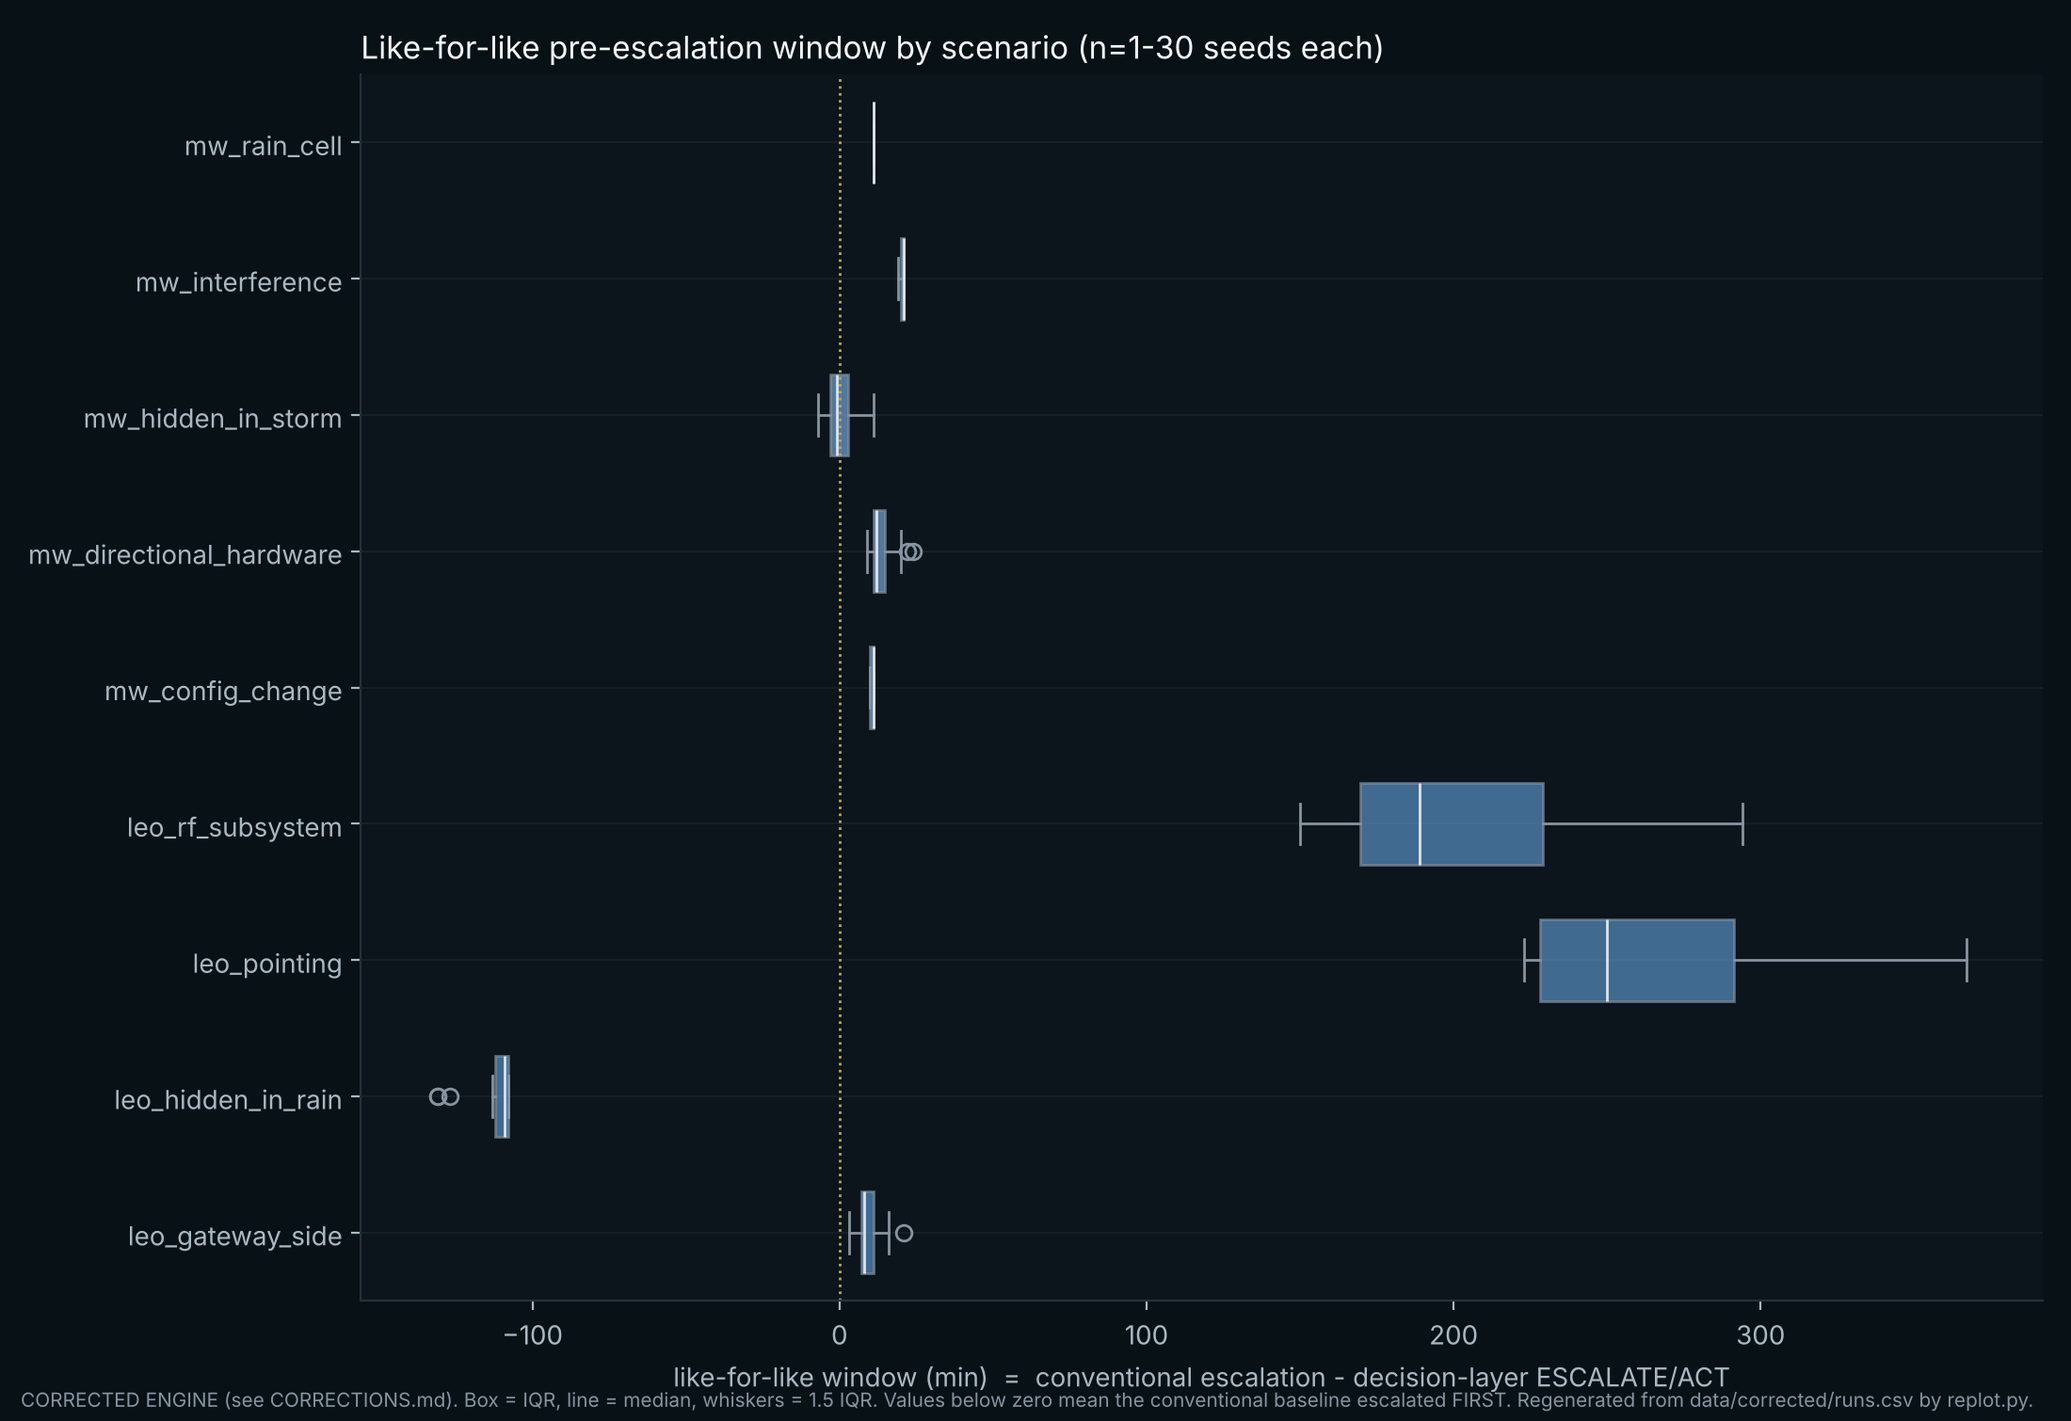
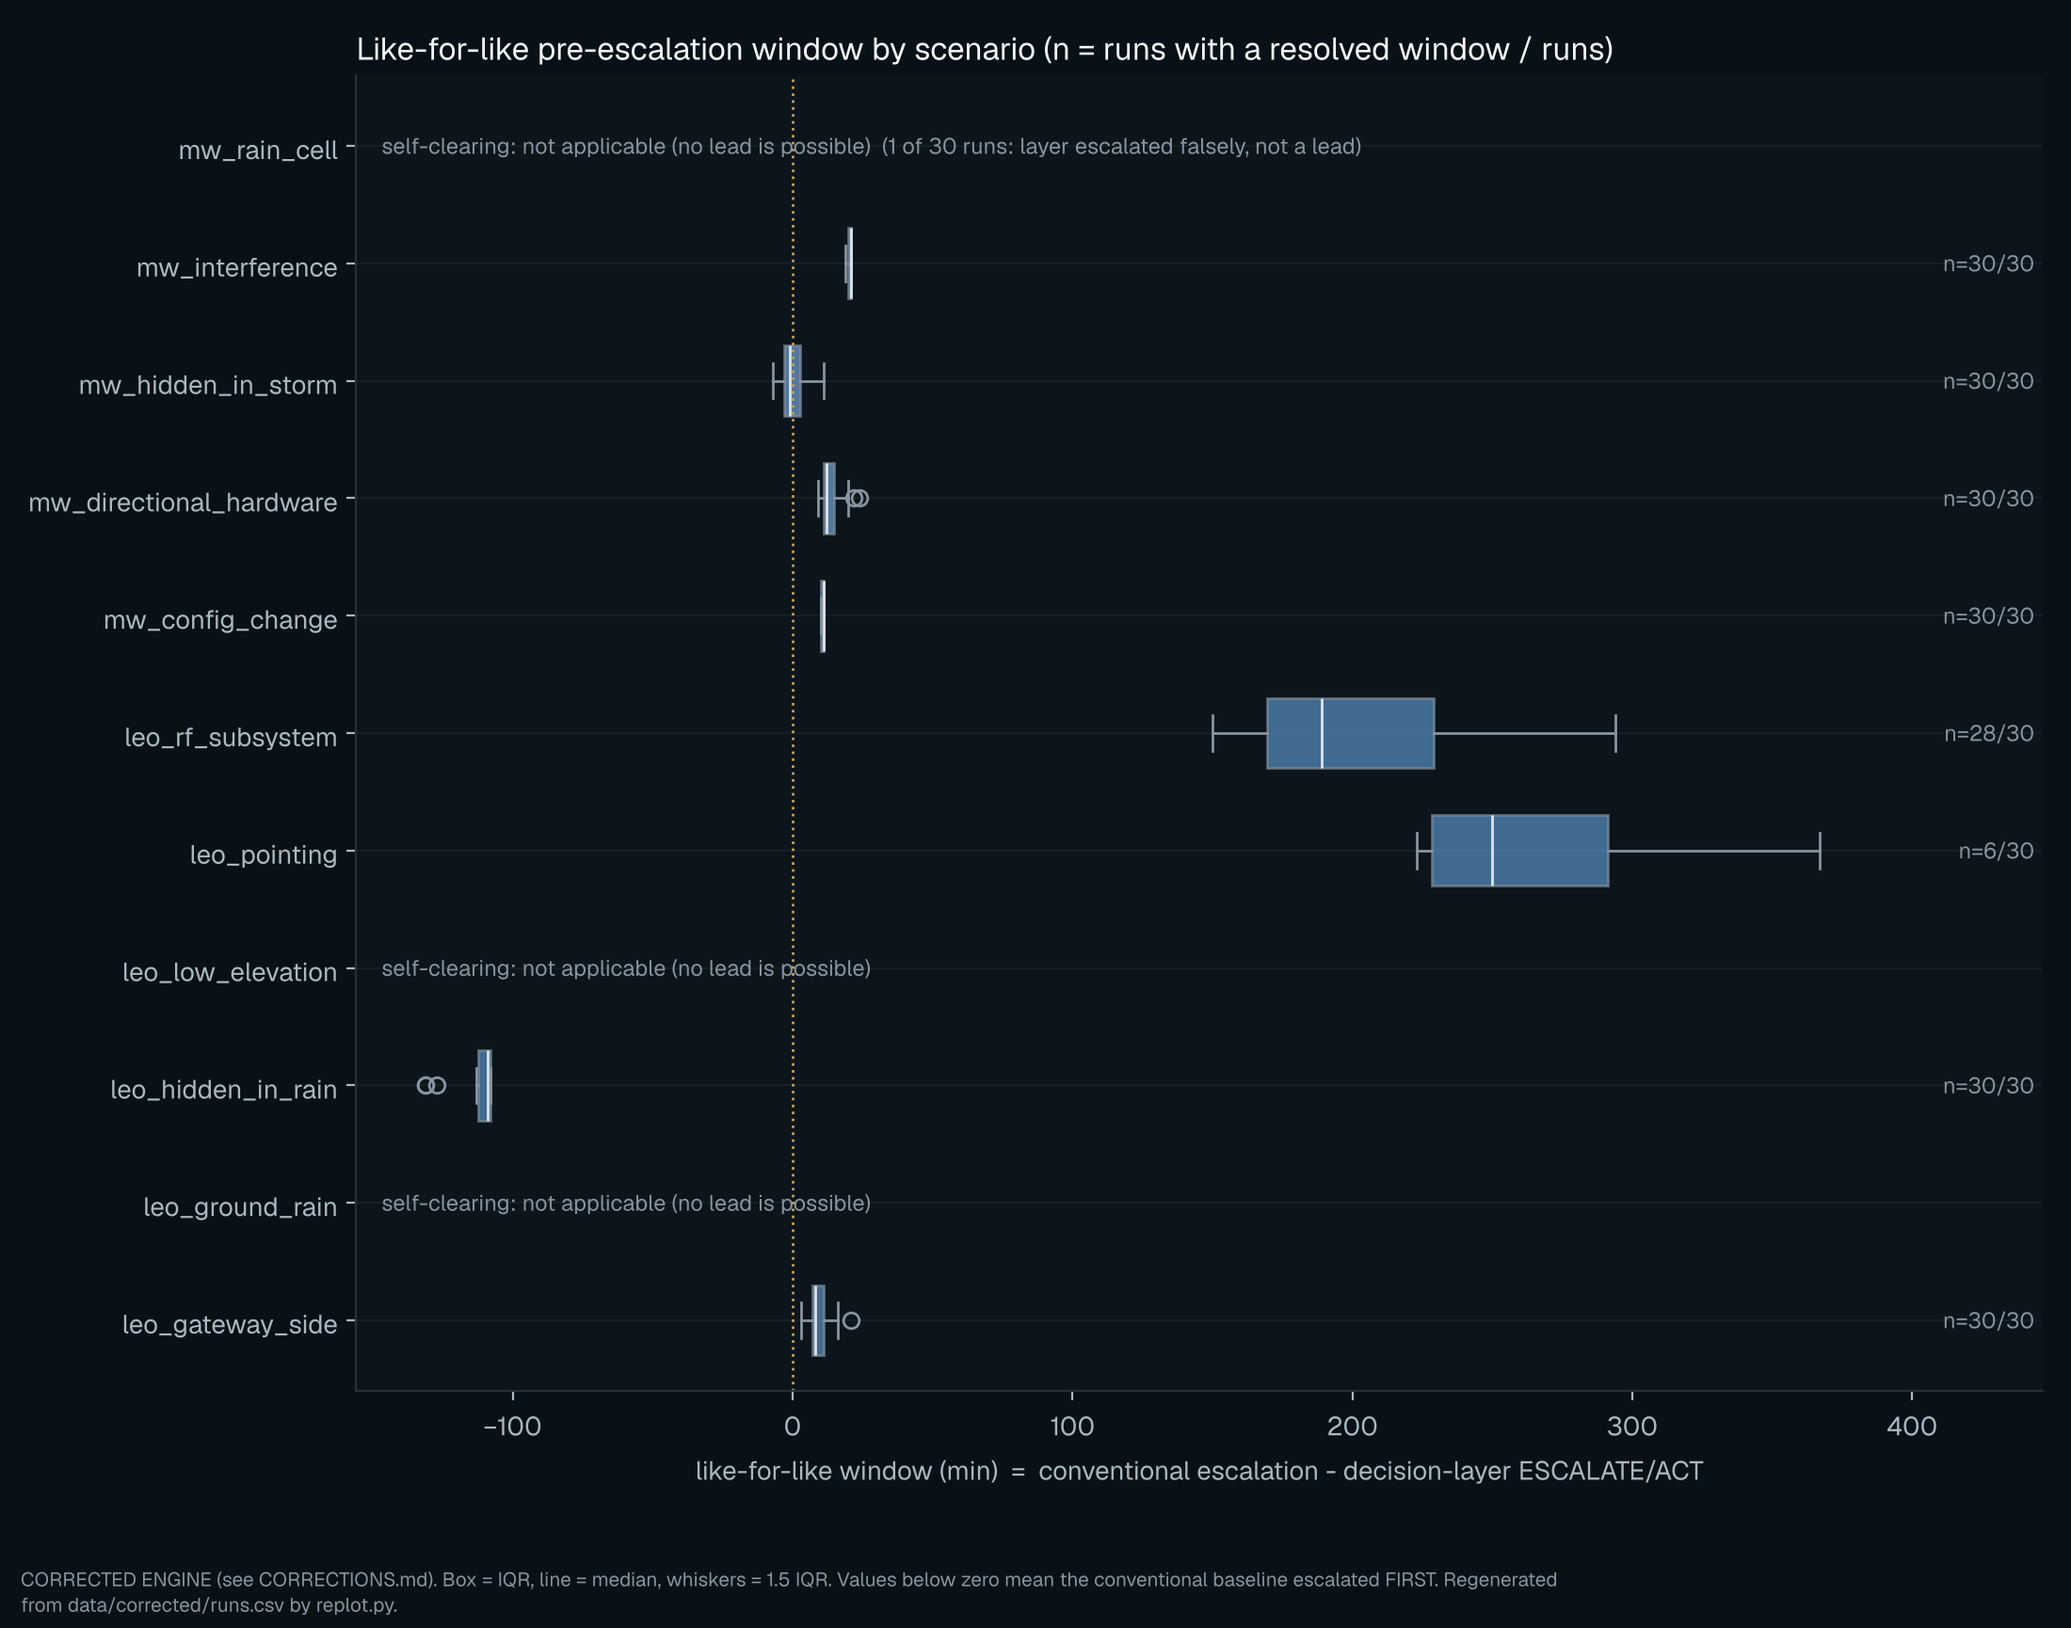
Figures: like-for-like window shows all 11 scenarios with n/a rows and sample sizes; n/a markers; brand line palette; Geist from repo fonts
Claude-Session: https://claude.ai/code/session_01Rx9huHk5MnagFnVThWGEcc

diff --git a/article/index.html b/article/index.html
@@ -123,15 +123,15 @@
 <p><strong>Not regenerated.</strong> Figure 14 (residual diagnosis; the per-step trace is not republished) and Figure 16 (illustrative economic exposure; the exposure model credits the layer with the original lead in which a WAIT counts, so it overstates avoided exposure) have no corrected counterpart. Treat them as previous-model figures. No field or operator validation exists for any result here.</p>
 <figure class="fig">
 <img src="./figures/corrected/fig08-window-by-scenario.png" alt="Box plot of the like-for-like pre-escalation window by scenario with a zero reference line.">
-<figcaption><span class="fig-num">Figure C1</span> <strong>Pre-escalation window by scenario, like-for-like definition.</strong> Regenerated from <code>data/corrected/</code> by <code>replot_dark.py</code>. <span class="fig-tag">SIMULATED</span></figcaption>
+<figcaption><span class="fig-num">Figure C1</span> <strong>Pre-escalation window by scenario, like-for-like definition.</strong> All 11 scenarios are shown. The three self-clearing scenarios (<code>leo_ground_rain</code>, <code>leo_low_elevation</code>, <code>mw_rain_cell</code>) have no lead by construction and are labelled rows, not boxes; one <code>mw_rain_cell</code> run is a false escalation. Each box shows its sample size (runs with a resolved window / runs). Regenerated from <code>data/corrected/</code> by <code>replot_dark.py</code>. <span class="fig-tag">SIMULATED</span></figcaption>
 </figure>
 <figure class="fig">
 <img src="./figures/corrected/fig09-cross-domain.png" alt="Box plots comparing microwave and LEO/NTN windows, time to correct diagnosis and ambiguous decisions.">
-<figcaption><span class="fig-num">Figure C2</span> <strong>Cross-domain comparison, corrected engine.</strong> Regenerated from <code>data/corrected/</code> by <code>replot_dark.py</code>. <span class="fig-tag">SIMULATED</span></figcaption>
+<figcaption><span class="fig-num">Figure C2</span> <strong>Cross-domain comparison, corrected engine.</strong> n = runs contributing to each box. Regenerated from <code>data/corrected/</code> by <code>replot_dark.py</code>. <span class="fig-tag">SIMULATED</span></figcaption>
 </figure>
 <figure class="fig">
 <img src="./figures/corrected/fig13-escalation-quality.png" alt="Escalation quality of the decision layer versus the conventional monitor.">
-<figcaption><span class="fig-num">Figure C3</span> <strong>Escalation quality, corrected engine.</strong> Regenerated from <code>data/corrected/</code> by <code>replot_dark.py</code>. <span class="fig-tag">SIMULATED</span></figcaption>
+<figcaption><span class="fig-num">Figure C3</span> <strong>Escalation quality, corrected engine.</strong> n/a marks an undefined metric (no persistent fault, or no escalation by the arm); it is not zero. Regenerated from <code>data/corrected/</code> by <code>replot_dark.py</code>. <span class="fig-tag">SIMULATED</span></figcaption>
 </figure>
 <figure class="fig">
 <img src="./figures/corrected/fig11-comparator-sensitivity.png" alt="Comparator sensitivity of the pre-escalation window.">

diff --git a/replot.py b/replot.py
@@ -71,29 +71,69 @@ ORIGINAL_WINDOW_NOTE = (" Window = ORIGINAL definition: the layer's clock starts
                         "(see CORRECTIONS.md).")
 
 
-def _footer(fig, text: str, original_window: bool = False) -> None:
+def _footer(fig, text: str, original_window: bool = False, wrap: bool = False) -> int:
     if DATA_LABEL != "data":
         text = text.replace("data/", DATA_LABEL + "/")
     if CORRECTED:
         text = "CORRECTED ENGINE (see CORRECTIONS.md). " + text + (ORIGINAL_WINDOW_NOTE if original_window else "")
+    if CORRECTED and wrap:                            # the longer corrected-set footer must not run off the canvas
+        import textwrap
+        text = textwrap.fill(text, width=int(fig.get_figwidth() * 15))
     fig.text(0.01, 0.01, text, fontsize=7.5, color=PALETTE["footer"], ha="left")
+    return text.count("\n") + 1
+
+
+def _self_clearing_scenarios(df: pd.DataFrame) -> set:
+    if "gt_self_clearing" not in df.columns:
+        return set()
+    g = df.groupby("scenario")["gt_self_clearing"].apply(lambda x: bool(x.astype(bool).all()))
+    return set(g.index[g])
 
 
 def fig_pre_escalation_window(df: pd.DataFrame, out: Path, col: str = "lead_gain_min") -> Optional[Path]:
     like_for_like = col == "escalation_window_min"
-    d = df[df[col].notna()]
-    if d.empty:
+    if df[col].notna().sum() == 0:
         return None
-    scenarios = sorted(d["scenario"].unique())
-    data = [d[d["scenario"] == s][col].values for s in scenarios]
-    fig, ax = plt.subplots(figsize=(11, 0.55 * len(scenarios) + 2.6))
-    bp = _boxplot(ax, data, scenarios, horizontal=True, patch_artist=True, widths=0.6)
-    for patch, s in zip(bp["boxes"], scenarios):
+    if CORRECTED:
+        # Corrected set: ALL scenarios appear. Self-clearing scenarios have no lead by construction (the layer
+        # should not escalate); they are drawn as labelled rows, never as boxes, so a false escalation or a
+        # counted WAIT cannot read as a lead time. Every box carries its sample size (resolved runs / runs).
+        scen_all = sorted(df["scenario"].unique())
+        selfc = _self_clearing_scenarios(df)
+        plotted = [s for s in scen_all if s not in selfc and df[df["scenario"] == s][col].notna().any()]
+    else:
+        d0 = df[df[col].notna()]
+        scen_all = plotted = sorted(d0["scenario"].unique())
+        selfc = set()
+    data = [df[df["scenario"] == s][col].dropna().values for s in plotted]
+    fig, ax = plt.subplots(figsize=(11, 0.55 * len(scen_all) + 2.6))
+    pos = [scen_all.index(s) + 1 for s in plotted]
+    bp = _boxplot(ax, data, plotted, horizontal=True, patch_artist=True, widths=0.6, positions=pos)
+    for patch, s in zip(bp["boxes"], plotted):
         patch.set_facecolor(PALETTE["decision"] if s.startswith("leo") else PALETTE["accent"])
         patch.set_alpha(0.65)
     for med in bp["medians"]:
         med.set_color(PALETTE["median"])
     ax.axvline(0, color=PALETTE["bad"], linewidth=1, linestyle=":")
+    if CORRECTED:
+        ax.set_yticks(range(1, len(scen_all) + 1))
+        ax.set_yticklabels(scen_all)
+        ax.set_ylim(0.4, len(scen_all) + 0.6)
+        x0, x1 = ax.get_xlim()
+        ax.set_xlim(x0, x1 + 0.10 * (x1 - x0))        # reserve a right-hand column for the sample-size labels
+        edge = ax.get_yaxis_transform()
+        for i, s in enumerate(scen_all, start=1):
+            sub = df[df["scenario"] == s]
+            if s in selfc:
+                k = int(sub[col].notna().sum())
+                why = "layer escalated falsely, not a lead" if like_for_like else "window counts a WAIT, not an escalation"
+                extra = (f"  ({k} of {len(sub)} runs: {why})" if k else "")
+                note = "self-clearing: not applicable (no lead is possible)" + extra
+                ax.text(0.015, i, note, transform=edge, va="center", ha="left", fontsize=8.5,
+                        color=PALETTE["footer"], style="italic")
+            else:
+                ax.text(0.995, i, f"n={int(sub[col].notna().sum())}/{len(sub)}", transform=edge, va="center",
+                        ha="right", fontsize=8.5, color=PALETTE["footer"])
     if like_for_like:
         ax.set_xlabel("like-for-like window (min)  =  conventional escalation - decision-layer ESCALATE/ACT")
         head = "Like-for-like pre-escalation window by scenario"
@@ -101,12 +141,18 @@ def fig_pre_escalation_window(df: pd.DataFrame, out: Path, col: str = "lead_gain
         ax.set_xlabel("pre-escalation window (min)  =  conventional escalation - decision-layer actionable")
         head = "Pre-escalation window by scenario" + (" (ORIGINAL definition)" if CORRECTED else "")
     _style(ax)
-    ax.set_title(f"{head} (n={d.groupby('scenario').size().min()}"
-                 f"-{d.groupby('scenario').size().max()} seeds each)", fontsize=12, loc="left")
-    _footer(fig, "Box = IQR, line = median, whiskers = 1.5 IQR. Values below zero mean the "
-                 "conventional baseline escalated FIRST. Regenerated from data/runs.csv by replot.py.",
-            original_window=CORRECTED and not like_for_like)
-    fig.tight_layout()
+    if CORRECTED:
+        ax.set_title(f"{head} (n = runs with a resolved window / runs)", fontsize=12, loc="left")
+    else:
+        sz = df[df[col].notna()].groupby("scenario").size()
+        ax.set_title(f"{head} (n={sz.min()}-{sz.max()} seeds each)", fontsize=12, loc="left")
+    n_lines = _footer(fig, "Box = IQR, line = median, whiskers = 1.5 IQR. Values below zero mean the "
+                           "conventional baseline escalated FIRST. Regenerated from data/runs.csv by replot.py.",
+                      original_window=CORRECTED and not like_for_like, wrap=True)
+    if CORRECTED:
+        fig.tight_layout(rect=[0, 0.025 + 0.022 * n_lines, 1, 1])
+    else:
+        fig.tight_layout()
     fig.savefig(out, dpi=200)
     plt.close(fig)
     return out
@@ -132,7 +178,8 @@ def fig_cross_domain(df: pd.DataFrame, out: Path) -> Optional[Path]:
         if not vals:
             ax.axis("off")
             continue
-        bp = _boxplot(ax, vals, labels, patch_artist=True, widths=0.5)
+        tick_labels = [f"{lab}\nn={v.size}" for lab, v in zip(labels, vals)] if CORRECTED else labels
+        bp = _boxplot(ax, vals, tick_labels, patch_artist=True, widths=0.5)
         for patch, lab in zip(bp["boxes"], labels):
             patch.set_facecolor(PALETTE["decision"] if lab == "leo_ntn" else PALETTE["accent"])
             patch.set_alpha(0.65)
@@ -166,6 +213,13 @@ def fig_escalation_quality(df: pd.DataFrame, out: Path) -> Optional[Path]:
                color=PALETTE["conventional"])
         ax.bar(x + w / 2, np.nan_to_num(lay), w, label="Velorona decision layer",
                color=PALETTE["decision"])
+        if CORRECTED:
+            # an undefined metric (no persistent fault / no escalation) is NOT zero: mark it explicitly
+            for xi, c, l in zip(x, conv, lay):
+                for off, v in ((-w / 2, c), (w / 2, l)):
+                    if pd.isna(v):
+                        ax.text(xi + off, 0.02 * ax.get_ylim()[1] + 0.012, "n/a", ha="center", va="bottom",
+                                fontsize=7.5, color=PALETTE["footer"], style="italic")
         ax.set_ylabel(label, fontsize=9)
         _style(ax)
     axes[0].legend(frameon=False, fontsize=9)
@@ -173,8 +227,9 @@ def fig_escalation_quality(df: pd.DataFrame, out: Path) -> Optional[Path]:
     axes[1].set_xticklabels(scen, rotation=30, ha="right", fontsize=8)
     fig.suptitle("Escalation quality: is the escalation about a real, persistent fault?",
                  fontsize=12, x=0.01, ha="left")
-    _footer(fig, "Medians across seeds. NaN (no escalation by either arm) plotted as zero. "
-                 "Regenerated from data/runs.csv by replot.py.")
+    _footer(fig, ("Medians across seeds. n/a = metric undefined (no persistent fault, or no escalation by the arm); not zero. "
+                  if CORRECTED else "Medians across seeds. NaN (no escalation by either arm) plotted as zero. ")
+                + "Regenerated from data/runs.csv by replot.py.")
     fig.tight_layout(rect=[0, 0.02, 1, 0.95])
     fig.savefig(out, dpi=200)
     plt.close(fig)

diff --git a/replot_dark.py b/replot_dark.py
@@ -71,12 +71,29 @@ def _fonts(geist_dir: str | None) -> str | None:
             for f in GEIST_FILES:
                 font_manager.fontManager.addfont(str(p / f))
             return "Geist"
-    return None
+    # Fall back to the repository's own woff2 files, converted to TTF (needs fonttools + brotli; matplotlib reads TTF only)
+    try:
+        from fontTools.ttLib import TTFont
+        tmp = Path(tempfile.mkdtemp(prefix="geist-ttf-"))
+        for f in GEIST_FILES:
+            src = ROOT / "fonts" / f.replace(".ttf", ".woff2")
+            font = TTFont(str(src))
+            font.flavor = None
+            font.save(str(tmp / f))
+            font_manager.fontManager.addfont(str(tmp / f))
+        return "Geist"
+    except Exception:
+        return None
 
 
 def _apply_theme(family: str | None) -> None:
     replot.PALETTE.update(DARK_PALETTE)
+    from cycler import cycler
     rc = {
+        # Multi-scenario line charts (fig 15): brand blues, AID Edge gold and neutrals, told apart by line style as well as
+        # colour; replaces matplotlib's default saturated blue/orange/green/red/purple cycle.
+        "axes.prop_cycle": (cycler(color=["#99C6F3", "#5F98D1", "#C6A15B", "#DCE4EB", "#8794A0"])
+                            + cycler(linestyle=["-", "--", "-.", ":", "-"])),
         "figure.facecolor": PLATE, "savefig.facecolor": PLATE, "axes.facecolor": PANEL,
         "text.color": TEXT, "axes.labelcolor": MUTED, "axes.edgecolor": BORDER,
         "xtick.color": MUTED, "ytick.color": MUTED,
@@ -195,9 +212,10 @@ def _fix(fig):
     elif " / " in key and "pre-escalation window" in key:
         _fix_timeline(fig)
     else:
-        top = {"Does the window survive": 0.93, "Latency vs. precision": 0.92}
+        top = {"Does the window survive": 0.93, "Latency vs. precision": 0.92,
+               "Where does the pre-escalation window": 0.93}
         rect_top = next((v for k, v in top.items() if key.startswith(k)), None)
-        if key.startswith("Pre-escalation window by scenario"):
+        if key.startswith(("Pre-escalation window by scenario", "Like-for-like pre-escalation window")):
             rect_top = 1.0
         if rect_top is not None:
             h = _wrap_footer(fig)

diff --git a/CHANGELOG.md b/CHANGELOG.md
@@ -1,5 +1,11 @@
 # Changelog
 
+## Figure presentation fixes (2026-10-12, no data or claim changes; content version stays 1.1)
+
+- `replot.py` / `replot_dark.py` (corrected set only; published-data figures are byte-identical to before): the like-for-like window figure now shows all 11 scenarios, draws the three self-clearing scenarios as labelled "not applicable" rows (never as boxes), shows resolved-runs/runs on each box, and no longer crowds the footer; the escalation-quality figure marks undefined metrics "n/a" instead of drawing them as zero; the cross-domain figure shows n per box.
+- `replot_dark.py`: article figures now use Geist (converted from the repository's woff2 files when `fonttools` + `brotli` are installed; otherwise the generator falls back to the default font), the multi-scenario severity chart uses the brand blues, AID Edge gold and neutrals distinguished by line style instead of matplotlib's default saturated orange/green/red cycle, and its footer is wrapped instead of cut off.
+- Regenerated: `figures/corrected/` fig01, fig01b, fig02, fig03 and `article/figures/corrected/` fig08, fig09, fig11, fig12, fig13, fig15. Light-theme figures fig05-fig10 are unchanged (their long footers are still cut off at the right edge in the light variants; the article uses the dark variants).
+
 ## Version archive (2026-10-12, not a research-content release; content version stays 1.1)
 
 - Homepage "Research versions": current version first, earlier versions as compact entries that open preserved copies under `versions/<id>/`.
